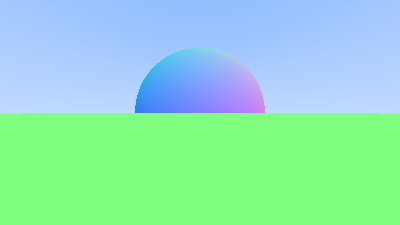
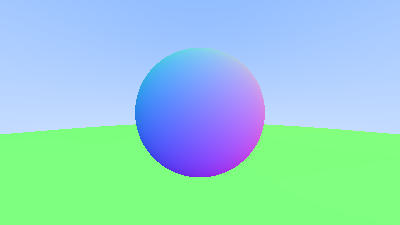
"I am retarded. I was off by 0.5! Fixed it"

Changed region(s): [[0.0, 0.4978, 1.0, 0.8089]]

diff --git a/sphere.py b/sphere.py
@@ -9,19 +9,19 @@ from environment_variables import Vector3, Point3, Ray3, dot
 from interval import Interval
 
 class Sphere(Hittable):
-    def __init__(self, position: Point3, radius: float) -> None:
-        self.position: Point3 = position
+    def __init__(self, center: Point3, radius: float) -> None:
+        self.center: Point3 = center
         self.radius: float = radius
 
     def hit(self, ray: Ray3, ray_t: Interval, record: HitRecord) -> bool:
-        oc: Vector3 = ray.origin - self.position
+        oc: Vector3 = ray.origin - self.center
         a: float = ray.direction.length_squared()
         half_b: float = dot(oc, ray.direction)
         c: float = oc.length_squared() - (self.radius * self.radius)
         
         # Does ray hit Sphere?
         discriminant: float = (half_b * half_b) - (a * c)
-        if discriminant < 0:
+        if (discriminant < 0):
             return False
         
         # Find nearest root that lies in the acceptable range
@@ -31,10 +31,10 @@ class Sphere(Hittable):
             root = (-half_b + sqrt_discriminant) / a
             if not ray_t.surrounds(root):
                 return False
-            
-        record.t = root
-        record.point = ray.point_at(record.t)
-        outward_normal: Vector3 = (record.point - self.position) / self.radius
-        record.set_face_normal(ray, outward_normal)
+
+        record.set_t(root)
+        record.set_point(ray.point_at(record.t))
+        outward_normal: Vector3 = (record.point - self.center) / self.radius
+        record.set_normal(ray, outward_normal)
         
         return True

diff --git a/hittable.py b/hittable.py
@@ -15,13 +15,19 @@ class HitRecord:
         self.normal: Vector3 = Vector3(0, 0, 0)
         self.t: float = math.inf
         
+    def set_t(self, t: float) -> None:
+        self.t = t
+        
+    def set_point(self, point: Point3) -> None:
+        self.point = point
+
     def copy(self, record: HitRecord) -> HitRecord:
         self.point = record.point
         self.normal = record.normal
         self.t = record.t
         return self
         
-    def set_face_normal(self, ray: Ray3, outward_normal: Vector3) -> None:
+    def set_normal(self, ray: Ray3, outward_normal: Vector3) -> None:
         front_face = dot(ray.direction, outward_normal) < 0
         # Somthing is wrong with the way the code computes 'front_face'
         # Its prob back in the sphere class, maybe in .hit()

diff --git a/main.py b/main.py
@@ -42,7 +42,7 @@ CAMERA_CENTER: Point3 = Point3(0, 0, 0)
 # World
 world: HittableList = HittableList()
 world.add(Sphere(Point3(0, 0, -1), 0.5)) # Foreground
-world.add(Sphere(Point3(0, -100, -1), 100)) # Background
+world.add(Sphere(Point3(0, -100.5, -1), 100)) # Background
 
 # Calculate the vectors across the horizontal and down the vertical viewport edges.
 VIEWPORT_U = Vector3(VIEWPORT_WIDTH, 0, 0)
